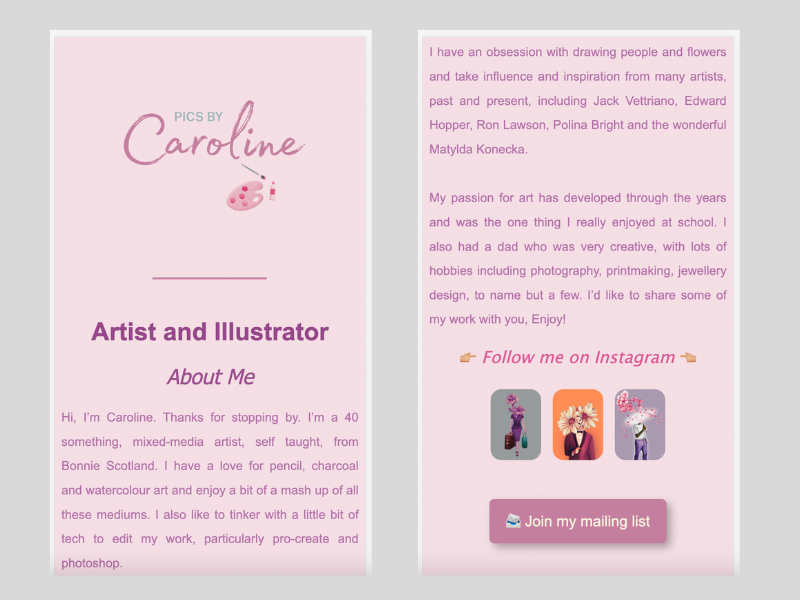
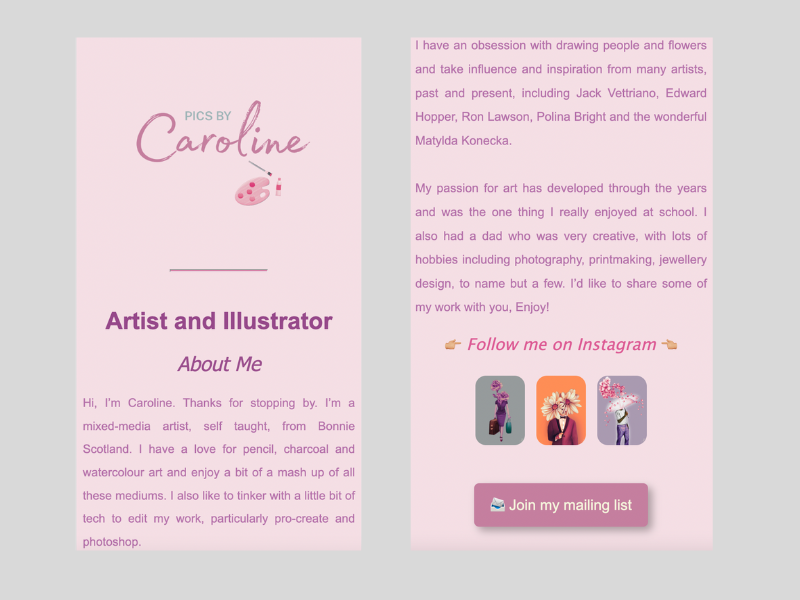
new images added

diff --git a/src/styles.css b/src/styles.css
@@ -17,7 +17,7 @@ h2 {
 }
 
 p {
-  font-size: 19px;
+  font-size: 18px;
   margin: 46px auto;
 }
 .logo {
@@ -69,20 +69,10 @@ ul.navbar-nav:hover {
   color: #f86eb8;
 }
 
-@media (min-width: 992px) {
-  .navbar-expand-lg .navbar-collapse {
-    display: flex !important;
-    flex-basis: auto;
-    justify-content: space-around;
-    align-items: center;
-    margin-left: 300px;
-  }
-}
-
 .one,
 .two {
   font-family: var(---alternative-font-family);
-  font-size: 22px;
+
   color: var(---primary-font-color);
 }
 
@@ -119,4 +109,21 @@ ul.navbar-nav:hover {
   color: var(---link-hover-color) !important;
   transition: ease-in-out 0.2s;
   font-size: 15px;
+}
+@media (min-width: 992px) {
+  .navbar-expand-lg .navbar-collapse {
+    display: flex !important;
+    flex-basis: auto;
+    justify-content: space-around;
+    align-items: center;
+    margin-left: 300px;
+  }
+}
+@media (max-width: 992px) {
+  .row {
+    flex-direction: column;
+  }
+  p {
+    font-size: 13px;
+  }
 }

diff --git a/index.html b/index.html
@@ -73,10 +73,10 @@
     </nav>
 <div class="container-fluid">
   <div class="row">
-    <div class="col one" >
+    <div class="col one p-5" >
       <img src="images/landing_page.png" class="img-fluid mt-5 shadow-lg p-1 mb-3 rounded" />
     </div>
-    <div class="col two">
+    <div class="col two p-5 text-start">
       <h2 class="headings mt-5 mb-5"><strong>Landing Page</strong></h2>
       <p>This is a landing page I built at the very beginning of my journey into coding with She Codes.  This landing page was made with html and css. The brief for the project was to build a landing page about something you are interested in.  Was a natural choice for me to pick my interest in art and design.</p>
       <section class="lplink-position"><a href="https://astounding-parfait-644292.netlify.app/" class="link">Link to Landing Page</a></section>
